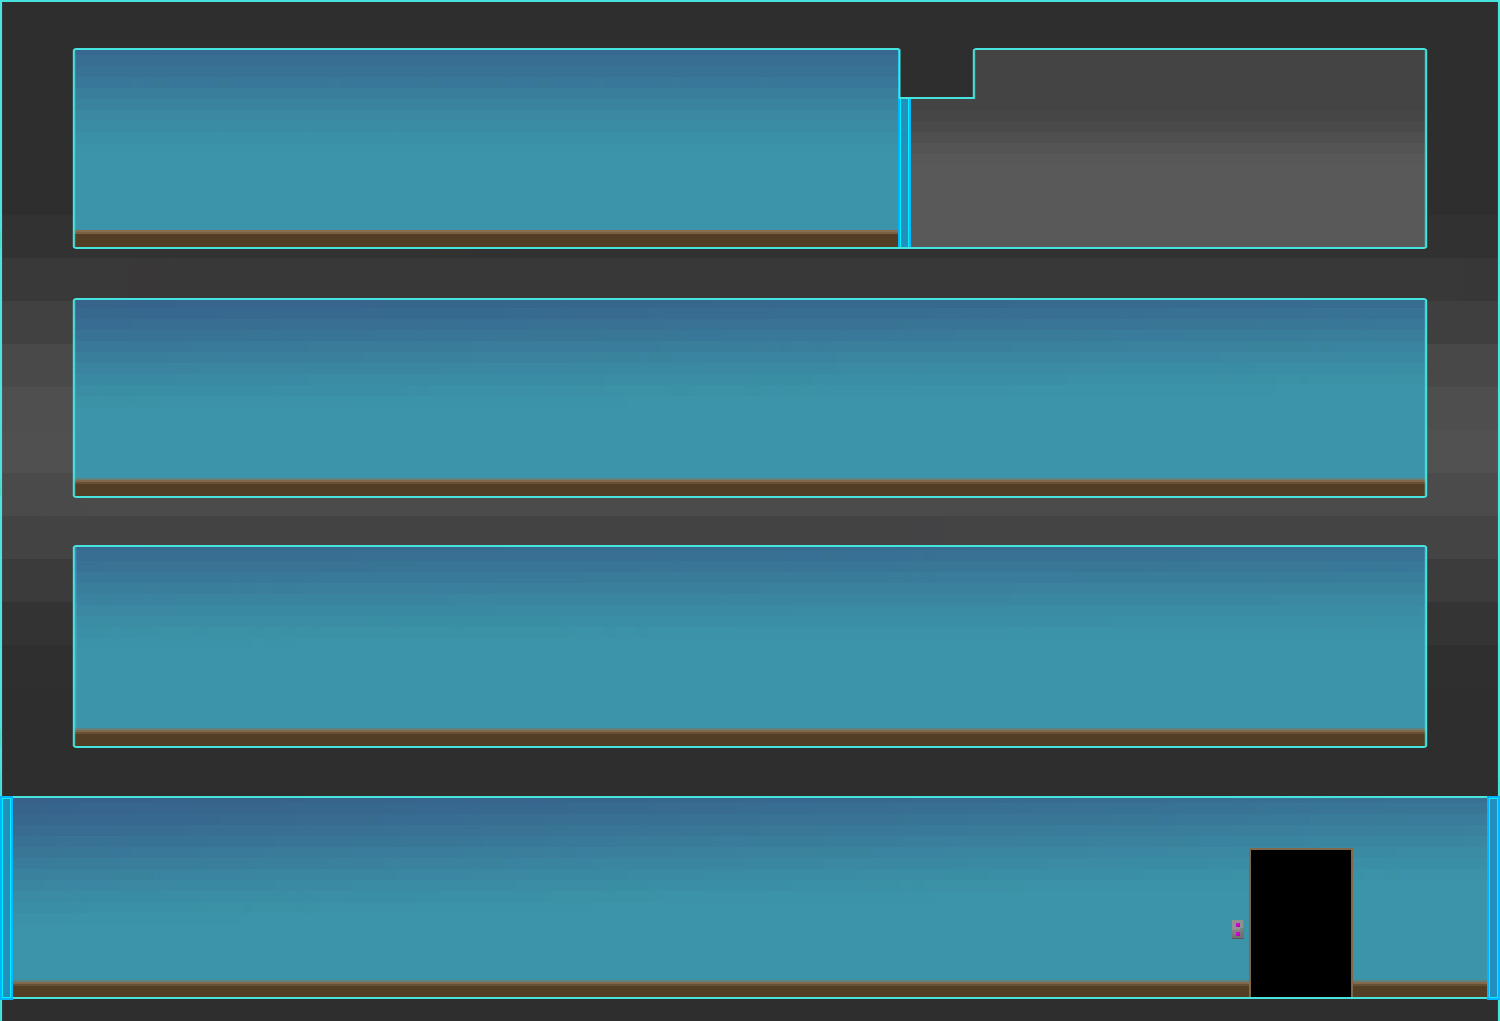
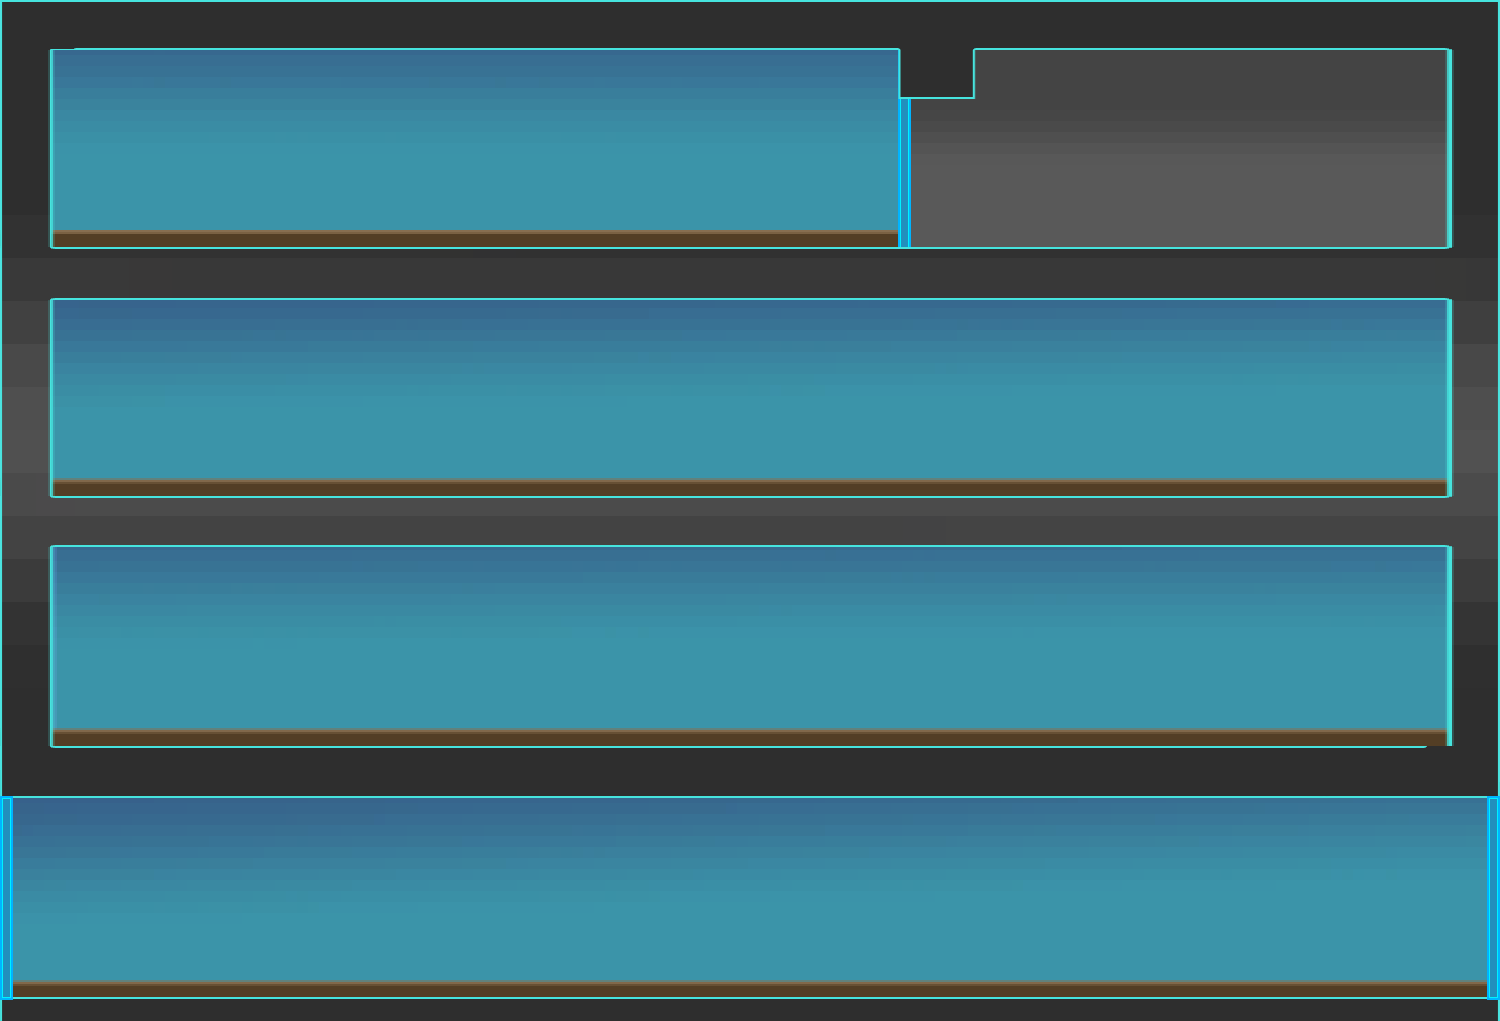
Being awake this long must be so bad for me. At least the voices stopped...for now

diff --git a/src/map/Grid.java b/src/map/Grid.java
@@ -1,28 +1,23 @@
 package map;
 
-
-import control.Camera;
 import processing.core.*;
 public class Grid {
 	PApplet p;
-	int startX;
-	int startY;
-	int widthNo;
-	int heightNo;
-	int gridWidth;
-	int gridHeight;
+	//Starting x and y for the grid
+	int startX, startY;
+	//size of each box, width of grid
+	int gridSize, gridWidth, gridHeight;
 	PVector off;
 	
 	//PImage gridImage;
-	public Grid(PApplet p, PImage image, int widthNo, int heightNo)
+	public Grid(PApplet p, PImage image, int gridSize)
 	{
 		this.p = p;
-		startX = (p.width/2)-(image.width/2); 
-		startY = (p.height/2)-(image.height/2);
-		this.widthNo = widthNo;
-		this.heightNo = heightNo;
-		gridWidth = image.width/widthNo;
-		gridHeight = image.height/heightNo;
+		startX = (p.width/2)-(image.width/2)-2; 
+		startY = (p.height/2)-(image.height/2)-2;
+		this.gridSize = gridSize;
+		gridWidth = PApplet.ceil(image.width/gridSize);
+		gridHeight = PApplet.ceil(image.height/gridSize);
 		off = new PVector();
 		off.set(0, 0);
 	}
@@ -30,10 +25,10 @@ public class Grid {
 	public PVector returnGrid(PVector off){
 		PVector point = new PVector();
 		point.set(0, 0);
-		for(int i = 0; i < widthNo; i++){
-			for(int j = 0; j < heightNo; j++){
-				if((p.mouseX+off.x > (startX + i*gridWidth)) && (p.mouseX+off.x < (startX + gridWidth + i*gridWidth)) && (p.mouseY+off.y > (startY + j*gridHeight)) && (p.mouseY+off.y < (startY + gridHeight+ j*gridHeight))){
-					point.set((startX + i*gridWidth + gridWidth/2), (startY + j*gridHeight + gridHeight/2));
+		for(int i = 0; i < gridWidth; i++){
+			for(int j = 0; j < gridHeight; j++){
+				if((p.mouseX+off.x > (startX + i*gridSize)) && (p.mouseX+off.x < (startX + gridSize + i*gridSize)) && (p.mouseY+off.y > (startY + j*gridSize)) && (p.mouseY+off.y < (startY + gridSize + j*gridSize))){
+					point.set((startX + i*gridSize + gridSize/2), (startY + j*gridSize + gridSize/2));
 				}
 			}
 		}
@@ -41,12 +36,12 @@ public class Grid {
 	}
 	
 	public void showGrid(){
-		for(int i = 0; i < widthNo; i++){
-			for(int j = 0; j < heightNo; j++){
+		for(int i = 0; i < gridWidth; i++){
+			for(int j = 0; j < gridHeight; j++){
 				p.noFill();
 				p.stroke(255);
 				p.rectMode(PConstants.CORNERS);
-				p.rect(startX + i*gridWidth, startY + j*gridHeight, startX + gridWidth + i*gridWidth, startY + gridHeight+ j*gridHeight);
+				p.rect(startX + i*gridSize, startY + j*gridSize, startX + gridSize + i*gridSize, startY + gridSize + j*gridSize);
 			}
 		}
 	}

diff --git a/src/control/GameLoop.java b/src/control/GameLoop.java
@@ -1,12 +1,10 @@
 package control;
 
 import java.util.ArrayList;
-
 import gameObject.*;
 import map.Grid;
 import map.Path;
 import processing.core.*;
-
 import userInterface.*;
 
 public class GameLoop {
@@ -44,9 +42,8 @@ public class GameLoop {
 		
 		gameEnemies = new ArrayList<Enemy>();
 		towers = new ArrayList<Tower>();
-		background = new PImage();
+		
 		background = p.loadImage("Resources\\Images\\Backgrounds\\Background\\0.png");
-		building = new PImage();
 		building = p.loadImage("Resources\\Images\\Backgrounds\\Building\\0.png");
 		
 		spawnRate = 5*60;
@@ -74,11 +71,8 @@ public class GameLoop {
 		off = new PVector(0,0);
 		
 		gameEnemies.add(new BasicEnemy(p,500,500,path1));
-		//gameEnemies.add(new BasicEnemy(p,700,700,path1));
-		towers.add(new PlasmaTower(p,100,100));
-		
 
-		grid = new Grid(p, building, 6, 10);
+		grid = new Grid(p, building, 50);
 	}
 	
 	public void update(int gameState)
@@ -181,10 +175,6 @@ public class GameLoop {
 			}
 		}
 	}
-	public void killEnemy()
-	{
-		
-	}
 	
 	void loseData(){
 		for(int i = 0; i < gameEnemies.size(); i++){
@@ -196,11 +186,13 @@ public class GameLoop {
 		
 	public void render(){
 		//Checking of the gameLoop should be rendered
-		p.text("$: " + money , p.width/8, p.height/8);
 		p.pushMatrix();
 		p.translate(-off.x,-off.y);
 		if(gameState == 4 || gameState == 5) {
-			p.image(building,p.width/2,p.height/2);
+			p.pushMatrix();
+			p.translate(p.width/2, p.height/2);
+			p.image(building,0,0);
+			p.popMatrix();
 			
 			for(int i = 0; i < towers.size(); i++){
 				towers.get(i).render();
@@ -218,6 +210,14 @@ public class GameLoop {
 		if(gameState == 4) {
 			for(int i = 0; i < gameMenu.size(); i++){
 				gameMenu.get(i).render();
+				p.noStroke();
+				p.fill(255);
+				p.rectMode(PApplet.CENTER);
+				p.rect(p.width-100, 150, 150, 50);
+				p.textSize(20);
+				p.textAlign(PApplet.CENTER);
+				p.fill(0);
+				p.text("$: " + money , p.width-100, 150);
 			}
 		}
 	}

diff --git a/src/control/MenuLoop.java b/src/control/MenuLoop.java
@@ -34,21 +34,23 @@ public class MenuLoop {
 		PImage creditsImage = p.loadImage("resources/images/menu/button/2.png");
 		PImage exitImage = p.loadImage("resources/images/menu/button/3.png");
 		PImage backImage = p.loadImage("resources/images/menu/button/4.png");
+		PImage titleImage = p.loadImage("resources/images/menu/button/5.png");
 		
 		//TODO Initialize all the menus here
 		//Start Menu
 		startMenu = new Animation(p,"resources/images/menu/start", 10);
 		
 		//Main menu
-		mainMenu.add(new Button(p, 4, p.width/2, 275, 200, 100, playImage, "", 15));
-		mainMenu.add(new Button(p, 2, p.width/2, 400, 200, 100, settingImage, "", 15));
-		mainMenu.add(new Button(p, 3, p.width/2, 525, 200, 100, creditsImage, "", 15));
-		mainMenu.add(new Button(p, 6, p.width/2, 650, 200, 100, exitImage, "", 15));
+		mainMenu.add(new Button(p, 0, p.width/2, 100, titleImage));
+		mainMenu.add(new Button(p, 4, p.width/2, 275, 200, 100, playImage));
+		mainMenu.add(new Button(p, 2, p.width/2, 400, 200, 100, settingImage));
+		mainMenu.add(new Button(p, 3, p.width/2, 525, 200, 100, creditsImage));
+		mainMenu.add(new Button(p, 6, p.width/2, 650, 200, 100, exitImage));
 		
 		//Pause menu
-		pauseMenu.add(new Button(p, 0, p.width/2, 100, 200, 100, settingImage, "", 15));
-		pauseMenu.add(new Button(p, 4, p
-				.width/2, p.height-100, 200, 100, backImage, "", 15));
+		pauseMenu.add(new Button(p, 0, p.width/2, 100, 200, 100, settingImage));
+		pauseMenu.add(new Button(p, 1, p.width/2, 200, 200, 100, settingImage));
+		pauseMenu.add(new Button(p, 4, p.width/2, p.height-100, 200, 100, backImage));
 		
 		//settings menu
 		settingsMenu.add(new Button(p, 0, p.width/2, 100, settingImage, "", 15));

diff --git a/src/gameObject/BasicEnemy.java b/src/gameObject/BasicEnemy.java
@@ -12,7 +12,7 @@ public class BasicEnemy extends Enemy{
 	
 	public BasicEnemy(PApplet p, int x, int y, Path path){
 		super(p, x, y, path);
-		speed = 10;
+		speed = 4;
 		moving = new Animation(p, "Resources/Images/Enemy/BasicEnemy/Moving", 5);
 		still = new Animation(p, "Resources/Images/Enemy/BasicEnemy/Still", 10);
 		mov = false;
